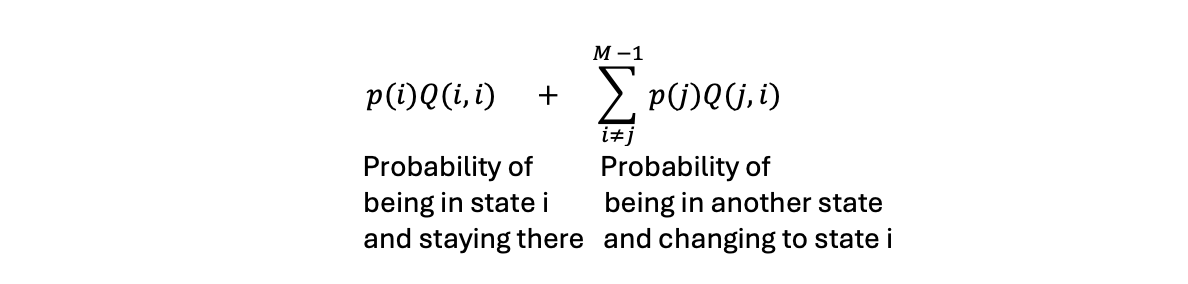
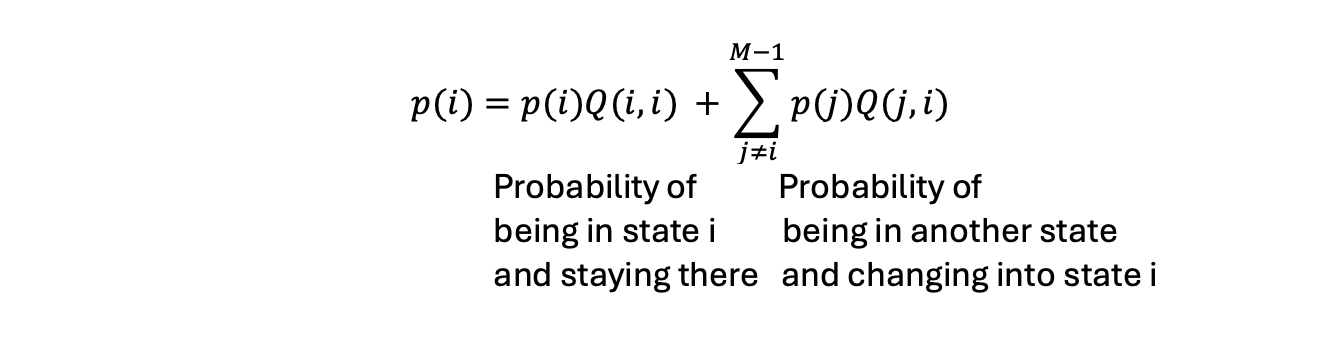
edits

Changed region(s): [[0.2803, 0.1127, 0.8721, 0.9014]]

diff --git a/technical/mcmc/index.html b/technical/mcmc/index.html
@@ -101,8 +101,8 @@ The idea is to use a Markov chain to generate samples from the distribution we w
   "keywords": [
     "technical"
   ],
-  "articleBody": "View from the Peggy Guggenheim Collection, Venice.\nIn the previous post we calculated the posterior distribution for a parameter we wanted to estimate. However, in practice, this is often not analytically possible and numerical simulations are needed. Here we evaluate the distribution using a Markov Chain Monte Carlo (MCMC) technique.\nThe idea is to use a Markov chain to generate samples from the distribution we want to evaluate where, as the chain evolves over time, the values it generates have the properties of the posterior’s probability distribution. These techniques have become important in Bayesian inference as they allow complicated probability distributions to be simulated.\nThis post covers:\n1. The Metropolis Hastings MCMC algorithm\n2. Why this works\n3. Evaluating a Bayesian posterior distribution with MCMC\n1.\tThe Metropolis Hastings MCMC algorithm Here we look at the Metropolis Hastings algorithm. The distribution we want to simulate is labelled as p. We have a state x and from this generate a proposed new state x* with the probability q(x*|x). q is a probability distribution for x* which depends on x, known as a proposal distribution. As the chain evolves over time the distribution of x values it generates has the properties of the distribution p. x is indexed by the time period s: x(s).\nThe algorithm to simulate the probability distribution is:\n Randomly select a starting value of x Randomly generate a proposed next value for x: x* from the proposal distribution q where the probability of the proposed x* depends on the existing value: x*=q(x*|x) Compute a probability of accepting the proposal (alpha):\nThe minimum ensures that the probability is not greater than 1 Generate a uniform random number r between 0 and 1 Decide what the next state is according to the rules:\nif r = alpha reject proposal and stick with exiting state: x(s+1) = x(s)\ni.e. switch to the new state with probability alpha or stay with the existing state with probability 1-alpha. Return to 2. and generate a new proposed value from x(s+1)  2.\tWhy this works That if you run this several thousand times it generates a set of x values that have the probability distribution p(x) is, at least to me, not immediately obvious.\nWhat follows is a plausibility argument taken from Efron and Hastie’s ‘Computer Age Statistical Inference’ that the way the probabilities are constructed means that the distribution of the chains states will approach p(x) over time. Here we assume there is a finite number of M states and the probability of state i is labelled p(i). Although the argument is based on a finite number of states in practice a continuous distribution can be approximated by a large number of states.\nIn a Markov chain there is an equilibrium where for any given state the probability of outflow from the state is equal to the probability of inflow. In this situation the distribution over the states tends to be stable over time as the probability of the state growing or shrinking is the same. We want to show that the equilibrium of the Markov chain we have constructed corresponds to the probability distribution p we want to simulate.\nBetween two states i and j the probability of switching from state i to state j under the rules is:\n(the probability state j is proposed) x (probability state j is accepted) i.e: These probabilities summed over all possible states that can be reached from i (including staying in state i) sum to 1: The probability of being in state i and then switching to state j is\n(probability of being in state i) x (probability of switching from state i to j): Similarly, the probability of being in state j and switching to state i is: min(a,b)=min(b,a) and so the probability of entering state i from state j or vice versa is the same and we have an equilibrium for the probability distribution p(i).\nSuppose we start in state x(1)=i generated from the probability distribution we want to simulate and calculate the probability of the next state being in state i from one iteration of the chain to the next: Inserting the equilibrium condition and rewriting to look at the second draw from the chain we get: The probability distribution of the second draw having state i, has the desired probability p(i), but this equation looks the same for each iteration of the chain so the third, and the fourth draw etc will also have the probability p(i) and similarly for the M-1 other states. p(i) is therefore the equilibrium distribution of the chain. In small samples the chain will not necessarily give the target probability distribution due to random variation, but as we draw more and more the distribution of the chain’s values should approach the probability distribution we want to simulate.\n3.\tEvaluating a Bayesian posterior distribution with MCMC To see the MCMC algorithm in action we use it to evaluate a simple example: the Gamma posterior produced by the Poisson likelihood and Gamma prior in the last post. This does not need to be simulated as it can be solved analytically, but gives a clear benchmark that we can compare the MCMC simulation against. For other functional forms and complicated situations with many parameters and multi-dimensional priors and likelihoods the posterior’s functional form (or the simpler likelihood multiplied the prior) cannot be directly calculated and therefore the distribution needs to be simulated to evaluate it. Even if you know the posterior distribution, quantities of interest such as its average may not always be readily calculable, but are easy to infer if you have a numerical approximation. The python code to simulate this and its output are show below.\nIn the simulation we use a proposal distribution of a Normal distribution with a mean equal to the current state to generate a proposal for the next one. As the lambda which parameterises the posterior can only take positive values, negative proposal values are converted to positive by multiplying by -1.\nThe charts show the posterior for different sample sizes of simulated data used to update the posterior, the corresponding MCMC simulations and the Gamma distribution that corresponds to the MCMC simulation results. The mean and the variance of a Gamma distribution are a function of the parameters alpha and beta that specify it. This relationship can be reversed to estimate these parameters from the mean and variance of the simulations and hence their associated Gamma distributions. As can be seen in the charts the simulated distribution of the chain’s values (and its corresponding Beta function) match the posterior distribution very closely. This is slightly artificial as we know what the true posterior distribution is, but demonstrates that the technique works. In practice things are usually more complicated as the distribution we are trying to simulate will often be unknown and the choice of proposal distribution and random fluctuations in the chain will affect the findings making the assessment of their validity harder.\nimport numpy as np import pandas as pd import matplotlib.pyplot as plt from scipy.stats import norm, lognorm from scipy.special import gamma from scipy.stats import gamma as gammadist # Number of samples drawn sample_number = 20000 # Functions that we are using def posterior(lambda_val, alpha, beta, data): \"\"\"function that gives the values of the gamma posterior for different values of alpha, beta and data\"\"\" count_no = len(data) sum_val = sum(data) new_beta = beta + count_no new_alpha = alpha + sum_val numerator = ( (new_beta**new_alpha) * np.exp(-lambda_val * new_beta) * (lambda_val ** (new_alpha - 1)) ) denominator = gamma(new_alpha) val = numerator / denominator return val def mcmc_threshold(x, y, data_sample): \"\"\"Function that generates the MCMC probability threshold for accepting the proposed state x is the current state y is the proposed new state norm.pdf(x,y,100) is the function x of a normal distribution with mean y and variance 100 \"\"\" ratio = (posterior(y, 0.3, 0.1, data_sample) * norm.pdf(x, y, 10)) / ( posterior(x, 0.3, 0.1, data_sample) * norm.pdf(y, x, 10) ) return min(ratio, 1) # The sample size of the datasets data_sets = [0, 3, 5, 25] # Sets up four subplots and the x axis the data will be evaluated over fig, axs = plt.subplots(4, figsize=(12, 15)) x = np.arange(0, 15, 0.1) # For each of the data_sets do a MCMC simulation of the posterior for index, sample_size in enumerate(data_sets): # Create a data frame to hold the results data_store = pd.DataFrame(index=range(sample_number), columns=[\"state_of_chain\"]) # Generate the artifical data to update the likelihood for the different sample sizes if index == 0: values = [] else: values = list(np.random.poisson(6, sample_size)) # Create an initial value to start the chain initial_value = np.random.normal(10, 10) state = initial_value # Run the samples for i in range(0, sample_number): # Generate the proposed state prop_value = np.random.normal(state, 10) # Generate a number between 1 and 0 to simulate probability of acceptance prob_sample = np.random.uniform(0, 1) # Set the proposed value to be positive if it is negative by multiplying by -1 if prop_value References:\nMurphy, K. ‘Machine Learning A probabilistic perspective’, Monte Carlo Inference\nDonovan, T. and Mickey, R. ‘Bayesian Statistics for Beginners’\nEfron, B. and Hastie, T., ‘Computer Age Statistical Inference’\nWilliams, D., ‘A course in Probability and Statistics’\nPrevious posts Bayes 1: Introduction to Bayesian inference\n",
-  "wordCount" : "1692",
+  "articleBody": "View from the Peggy Guggenheim Collection, Venice.\nIn the previous post we calculated the posterior distribution for a parameter we wanted to estimate. However, in practice, this is often not analytically possible and numerical simulations are needed. Here we evaluate the distribution using a Markov Chain Monte Carlo (MCMC) technique.\nThe idea is to use a Markov chain to generate samples from the distribution we want to evaluate where, as the chain evolves over time, the values it generates have the properties of the posterior’s probability distribution. These techniques have become important in Bayesian inference as they allow complicated probability distributions to be simulated.\nThis post covers:\n1. The Metropolis Hastings MCMC algorithm\n2. Why this works\n3. Evaluating a Bayesian posterior distribution with MCMC\n1.\tThe Metropolis Hastings MCMC algorithm Here we look at the Metropolis Hastings algorithm. The distribution we want to simulate is labelled as p. We have a state x and from this generate a proposed new state x* with the probability q(x*|x). q is a probability distribution for x* which depends on x, known as a proposal distribution. As the chain evolves over time the distribution of x values it generates has the properties of the distribution p. x is indexed by the time period s: x(s).\nThe algorithm to simulate the probability distribution is:\n Randomly select a starting value of x Randomly generate a proposed next value for x: x* from the proposal distribution q where the probability of the proposed x* depends on the existing value: x*=q(x*|x) Compute a probability of accepting the proposal (alpha):\nThe minimum ensures that the probability is not greater than 1 Generate a uniform random number r between 0 and 1 Decide what the next state is according to the rules:\nif r = alpha reject proposal and stick with exiting state: x(s+1) = x(s)\ni.e. switch to the new state with probability alpha or stay with the existing state with probability 1-alpha. Return to 2. and generate a new proposed value from x(s+1)  2.\tWhy this works That if you run this several thousand times it generates a set of x values that have the probability distribution p(x) is, at least to me, not immediately obvious.\nWhat follows is a plausibility argument taken from Efron and Hastie’s ‘Computer Age Statistical Inference’ that the way the probabilities are constructed means that the distribution of the chain’s states will approach p(x) over time. Here we assume there are a finite number of states M and the probability of state i is labelled p(i). Although the argument is based on a finite number of states in practice a continuous distribution can be approximated by a large number of states.\nIn a Markov chain there is an equilibrium where for any given state the probability of outflow from the state is equal to the probability of inflow. In this situation the distribution over the states tends to be stable over time as the probability of the state growing or shrinking is the same. We want to show that the equilibrium of the Markov chain we have constructed corresponds to the probability distribution p we want to simulate.\nBetween two states i and j the probability of switching from state i to state j under the rules Q(i,j) is:\n(the probability state j is proposed) x (probability state j is accepted) i.e: These probabilities summed over all possible states that can be reached from i (including staying in state i) sum to 1: The probability of being in state i and then switching to state j is\n(probability of being in state i) x (probability of switching from state i to j): Similarly, the probability of being in state j and switching to state i is: min(a,b)=min(b,a) and so the probability of entering state i from state j or vice versa is the same and we have an equilibrium for the probability distribution p(i).\nSuppose we start in state x(1)=i generated from the probability distribution we want to simulate and calculate the probability of the next state being in state i from one iteration of the chain to the next: Inserting the equilibrium condition and rewriting to look at the second draw from the chain we get: The probability distribution of the second draw having state i, has the desired probability p(i), but this equation looks the same for each iteration of the chain so the third, and the fourth draw etc will also have the probability p(i) and similarly for the M-1 other states. p(i) is therefore the equilibrium distribution of the chain. In small samples the chain will not necessarily give the target probability distribution due to random variation, but as we draw more and more the distribution of the chain’s values should approach the probability distribution we want to simulate.\n3.\tEvaluating a Bayesian posterior distribution with MCMC To see the MCMC algorithm in action we use it to evaluate a simple example: the Gamma posterior produced by the Poisson likelihood and Gamma prior in the last post. This does not need to be simulated as it can be solved analytically, but gives a clear benchmark that we can compare the MCMC simulation against. For other functional forms and complicated situations with many parameters and multi-dimensional priors and likelihoods the posterior’s functional form (or the simpler likelihood multiplied the prior) cannot be directly calculated and therefore the distribution needs to be simulated to evaluate it. Even if you know the posterior distribution, quantities of interest such as its average may not always be readily calculable, but are easy to infer if you have a numerical approximation. The Python code to simulate this and its output are show below.\nIn the simulation we use a proposal distribution of a Normal distribution with a mean equal to the current state to generate a proposal for the next one. As the lambda which parameterises the posterior can only take positive values, negative proposal values are converted to positive by multiplying by -1.\nThe charts show the posterior for different sample sizes of simulated data used to update the posterior, the corresponding MCMC simulations and the Gamma distribution that corresponds to the MCMC simulation results. The mean and the variance of a Gamma distribution are a function of the parameters alpha and beta that specify it. This relationship can be reversed to estimate these parameters from the mean and variance of the simulations and hence their associated Gamma distributions. As can be seen in the charts the simulated distribution of the chain’s values (and its corresponding Beta function) match the posterior distribution very closely. This is slightly artificial as we know what the true posterior distribution is, but demonstrates that the technique works. In practice things are usually more complicated as the distribution we are trying to simulate will often be unknown and the choice of proposal distribution and random fluctuations in the chain will affect the findings making the assessment of their validity harder.\nimport numpy as np import pandas as pd import matplotlib.pyplot as plt from scipy.stats import norm, lognorm from scipy.special import gamma from scipy.stats import gamma as gammadist # Number of samples drawn sample_number = 20000 # Functions that we are using def posterior(lambda_val, alpha, beta, data): \"\"\"function that gives the values of the gamma posterior for different values of alpha, beta and data\"\"\" count_no = len(data) sum_val = sum(data) new_beta = beta + count_no new_alpha = alpha + sum_val numerator = ( (new_beta**new_alpha) * np.exp(-lambda_val * new_beta) * (lambda_val ** (new_alpha - 1)) ) denominator = gamma(new_alpha) val = numerator / denominator return val def mcmc_threshold(x, y, data_sample): \"\"\"Function that generates the MCMC probability threshold for accepting the proposed state x is the current state y is the proposed new state norm.pdf(x,y,100) is the function x of a normal distribution with mean y and variance 100 \"\"\" ratio = (posterior(y, 0.3, 0.1, data_sample) * norm.pdf(x, y, 10)) / ( posterior(x, 0.3, 0.1, data_sample) * norm.pdf(y, x, 10) ) return min(ratio, 1) # The sample size of the datasets data_sets = [0, 3, 5, 25] # Sets up four subplots and the x axis the data will be evaluated over fig, axs = plt.subplots(4, figsize=(12, 15)) x = np.arange(0, 15, 0.1) # For each of the data_sets do a MCMC simulation of the posterior for index, sample_size in enumerate(data_sets): # Create a data frame to hold the results data_store = pd.DataFrame(index=range(sample_number), columns=[\"state_of_chain\"]) # Generate the artifical data to update the likelihood for the different sample sizes if index == 0: values = [] else: values = list(np.random.poisson(6, sample_size)) # Create an initial value to start the chain initial_value = np.random.normal(10, 10) state = initial_value # Run the samples for i in range(0, sample_number): # Generate the proposed state prop_value = np.random.normal(state, 10) # Generate a number between 1 and 0 to simulate probability of acceptance prob_sample = np.random.uniform(0, 1) # Set the proposed value to be positive if it is negative by multiplying by -1 if prop_value References:\nMurphy, K. ‘Machine Learning A probabilistic perspective’, Monte Carlo Inference\nDonovan, T. and Mickey, R. ‘Bayesian Statistics for Beginners’\nEfron, B. and Hastie, T., ‘Computer Age Statistical Inference’\nWilliams, D., ‘A course in Probability and Statistics’\nPrevious posts Bayes 1: Introduction to Bayesian inference\n",
+  "wordCount" : "1693",
   "inLanguage": "en",
   "image":"https://johnardavies.github.io/mcmc_title.png","datePublished": "2024-07-30T00:00:00Z",
   "dateModified": "2024-07-30T00:00:00Z",
@@ -236,8 +236,8 @@ existing value: x*=q(x*|x)</li>
 The minimum ensures that the probability is not greater than 1</li>
 <li>Generate a uniform random number r between 0 and 1</li>
 <li>Decide what the next state is according to the rules:<br>
-if   r &lt; alpha  accept the proposal and make the next state x*: x(s+1)  =  x*<br>
-if   r &gt;= alpha reject proposal and stick with exiting state: x(s+1)  =  x(s)<br>
+      if r &lt; alpha  accept the proposal and make the next state x*: x(s+1)  =  x*<br>
+      if r &gt;= alpha reject proposal and stick with exiting state: x(s+1)  =  x(s)<br>
 i.e. switch to the new state with probability alpha or stay with the existing state with probability 1-alpha.</li>
 <li>Return to 2. and generate a new proposed value from x(s+1)</li>
 </ol>
@@ -245,12 +245,13 @@ i.e. switch to the new state with probability alpha or stay with the existing st
 <p>That if you run this several thousand times it generates a set of x values that have the probability distribution p(x) is, at least to me,
 not immediately obvious.</p>
 <p>What follows is a plausibility argument taken from Efron and Hastie&rsquo;s &lsquo;Computer Age Statistical Inference&rsquo; that the way the probabilities are constructed means that
-the distribution of the chains states will approach p(x) over time. Here we assume there is a finite number of M states and the probability of state i is labelled p(i).
+the distribution of the chain&rsquo;s states will approach p(x) over time. Here we assume there are a finite number of states M and the probability of state
+i is labelled p(i).
 Although the argument is based on a finite number of states in practice a continuous distribution can be approximated by a large number of states.</p>
 <p>In a Markov chain there is an equilibrium where for any given state the probability of outflow from the state is equal to the probability of
 inflow. In this situation the distribution over the states tends to be stable over time as the probability of the state growing or shrinking is the
 same. We want to show that the equilibrium of the Markov chain we have constructed corresponds to the probability distribution p we want to simulate.</p>
-<p>Between two states i and j the probability of switching from state i to state j under the rules is:<br>
+<p>Between two states i and j the probability of switching from state i to state j under the rules Q(i,j) is:<br>
 (the probability state j is proposed) x (probability state j is accepted) i.e:
 <img loading="lazy" src="https://johnardavies.github.io/mcmc_alg2.png" alt="mcmc_alg2"  />
 
@@ -286,7 +287,7 @@ the <a href="https://johnardavies.github.io/technical/bayes1/">last post</a>. Th
 clear benchmark that we can compare the MCMC simulation against. For other functional forms and complicated situations with many parameters
 and multi-dimensional priors and likelihoods the posterior’s functional form (or the simpler likelihood multiplied the prior) cannot be
 directly calculated and therefore the distribution needs to be simulated to evaluate it. Even if you know the posterior distribution, quantities of
-interest such as its average may not always be readily calculable, but are easy to infer if you have a numerical approximation. The python code to
+interest such as its average may not always be readily calculable, but are easy to infer if you have a numerical approximation. The Python code to
 simulate this and its output are show below.</p>
 <p>In the simulation we use a proposal distribution of a Normal distribution with a mean equal to the current state to generate a proposal for the
 next one. As the lambda which parameterises the posterior can only take positive values, negative proposal values are converted
